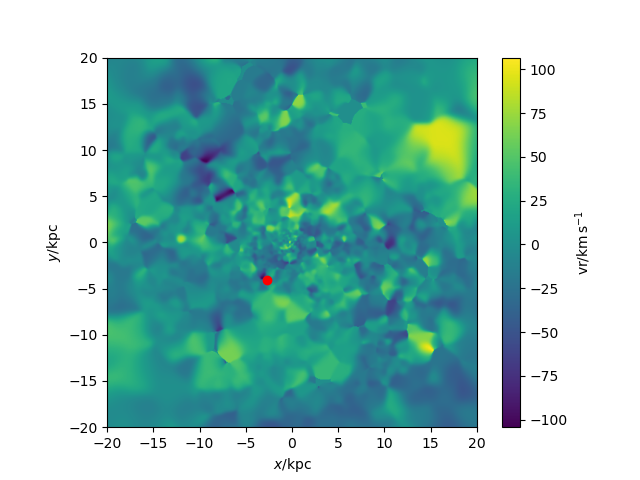
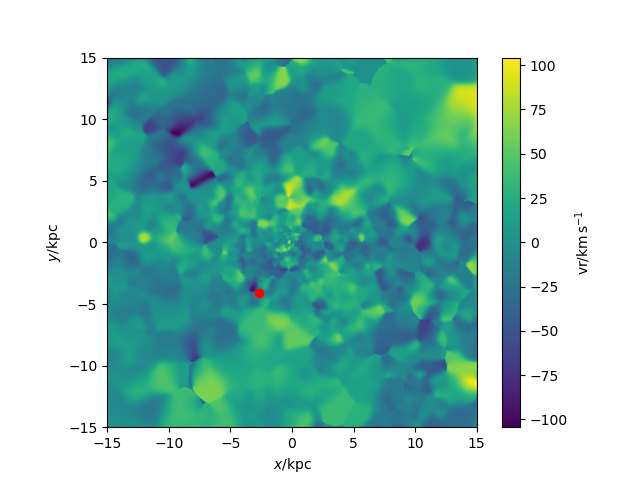
axis updated

diff --git a/r219/galaxy219_iongas.py b/r219/galaxy219_iongas.py
@@ -13,13 +13,14 @@ s=pynbody.load('/mnt/data0/jillian/gguaman/r219/cosmo25p.768sg1bwK1BHe75.007779'
 s.physical_units()
 
 #centering halo
-pynbody.analysis.angmom.faceon(s)
+#pynbody.analysis.angmom.faceon(s)
+pynbody.analysis.angmom.sideon(s)
 
 #filter to only use ionised gas
 GasFilter = pynbody.filt.HighPass('temp','15848 K')
 
 #creating image to show velocity of ionised gas
-sph.image(s.g[GasFilter],qty="vr",vmin=-20,width=40,denoise=True,approximate_fast=False,log=False)
+sph.image(s.g[GasFilter],qty="vr",vmin=-20,width=30,denoise=True,approximate_fast=False,log=False)
 
 #function to find BH
 def findBH(s):
@@ -52,4 +53,5 @@ BHz=BHposition[[0],2]
 plt.plot(BHx,BHy, 'ro')
 
 #plt.show()
-plt.savefig("galaxy219_iongas.png")
+#plt.savefig("galaxy219_iongas.png")
+plt.savefig("galaxy219_iongas(side).png")

diff --git a/r219/galaxy219_velocity.py b/r219/galaxy219_velocity.py
@@ -7,13 +7,16 @@ import matplotlib.pyplot as plt
 
 #loading snapshot
 s=pynbody.load('/mnt/data0/jillian/gguaman/r219/cosmo25p.768sg1bwK1BHe75.007779')
+
+#setting to physical units
 s.physical_units()
 
 #centering halo
-pynbody.analysis.angmom.faceon(s)
+#pynbody.analysis.angmom.faceon(s)
+pynbody.analysis.angmom.sideon(s)
 
 #creating gas velocity plot
-sph.image(s.g,qty="vr",width=40,denoise=True,approximate_fast=False,log=False)
+sph.image(s.g,qty="vr",width=30,denoise=True,approximate_fast=False,log=False)
 
 #function to find BH
 def findBH(s):
@@ -46,4 +49,5 @@ BHz=BHposition[[0],2]
 plt.plot(BHx,BHy, 'ro')
 
 #plt.show()
-plt.savefig("galaxy219_velocity.png")
+#plt.savefig("galaxy219_velocity.png")
+plt.savefig("galaxy219_velocity(side).png")

diff --git a/r219/galaxy219_temp.py b/r219/galaxy219_temp.py
@@ -12,10 +12,11 @@ s=pynbody.load('/mnt/data0/jillian/gguaman/r219/cosmo25p.768sg1bwK1BHe75.007779'
 s.physical_units()
 
 #centering halo
-pynbody.analysis.angmom.faceon(s)
+#pynbody.analysis.angmom.faceon(s)
+pynbody.analysis.angmom.sideon(s)
 
 #creating slice to show gas temp
-sph.image(s.g,qty="temp",width=40,denoise=True,approximate_fast=False,log=True)
+sph.image(s.g,qty="temp",width=30,denoise=True,approximate_fast=False,log=True)
 
 #function to find BH
 def findBH(s):
@@ -48,4 +49,5 @@ BHz=BHposition[[0],2]
 plt.plot(BHx,BHy, 'ro')
 
 #plt.show()
-plt.savefig("galaxy219_temp.png")
+#plt.savefig("galaxy219_temp.png")
+plt.savefig("galaxy219_temp(side).png")

diff --git a/r219/galaxy219_dens.py b/r219/galaxy219_dens.py
@@ -10,10 +10,11 @@ s=pynbody.load('/mnt/data0/jillian/gguaman/r219/cosmo25p.768sg1bwK1BHe75.007779'
 s.physical_units()
 
 #centering halo and aligning disk
-pynbody.analysis.angmom.faceon(s)
+#pynbody.analysis.angmom.faceon(s)
+pynbody.analysis.angmom.sideon(s)
 
 #creating gas density slice
-sph.image(s.g,qty="rho",units="g cm^-3",width=40)
+sph.image(s.g,qty="rho",units="g cm^-3",width=30)
 
 #function to find BH
 def findBH(s):
@@ -46,4 +47,5 @@ BHz=BHposition[[0],2]
 plt.plot(BHx,BHy, 'ro')
 
 #plt.show()
-plt.savefig("galaxy219_dens.png")
+#plt.savefig("galaxy219_dens.png")
+plt.savefig("galaxy219_dens(side).png")

diff --git a/r219/galaxy219_stars.py b/r219/galaxy219_stars.py
@@ -10,10 +10,12 @@ s=pynbody.load('/mnt/data0/jillian/gguaman/r219/cosmo25p.768sg1bwK1BHe75.007779'
 s.physical_units()
 
 #centering halo
-pynbody.analysis.angmom.faceon(s)
+#pynbody.analysis.angmom.faceon(s)
+pynbody.analysis.angmom.sideon(s)
 
 #creating image using default bands(i,v,u)
-pynbody.plot.stars.render(s,width='12 kpc')
+pynbody.plot.stars.render(s,width='30 kpc')
 
 #plt.show()
-plt.savefig("galaxy219_stars.png")
+#plt.savefig("galaxy219_stars.png")
+plt.savefig("galaxy219_stars(side).png")
